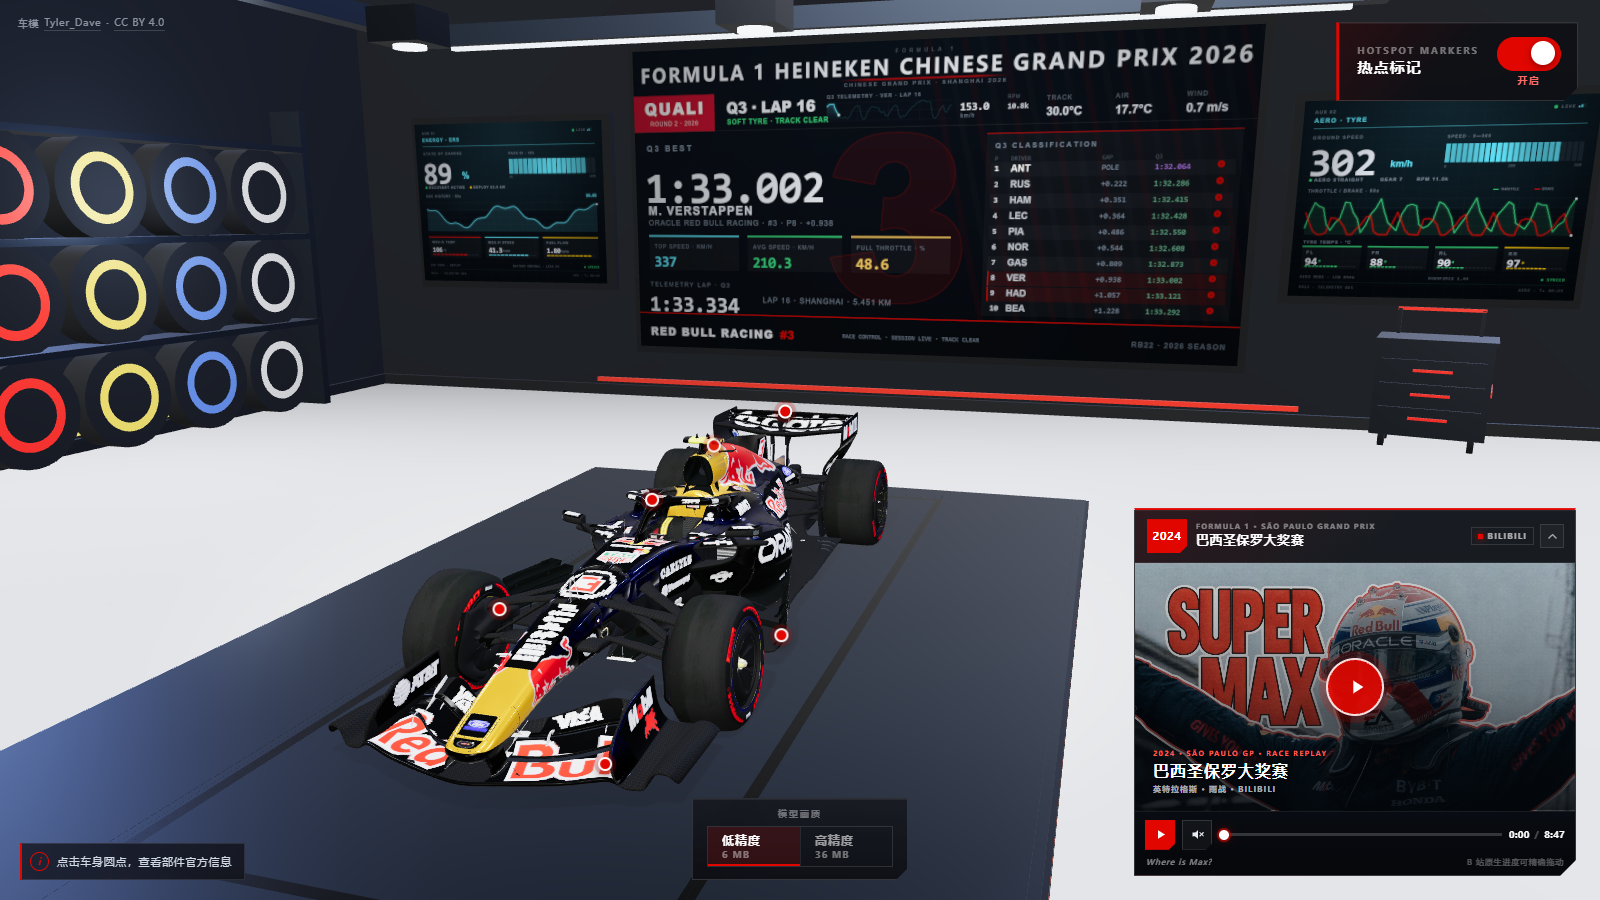
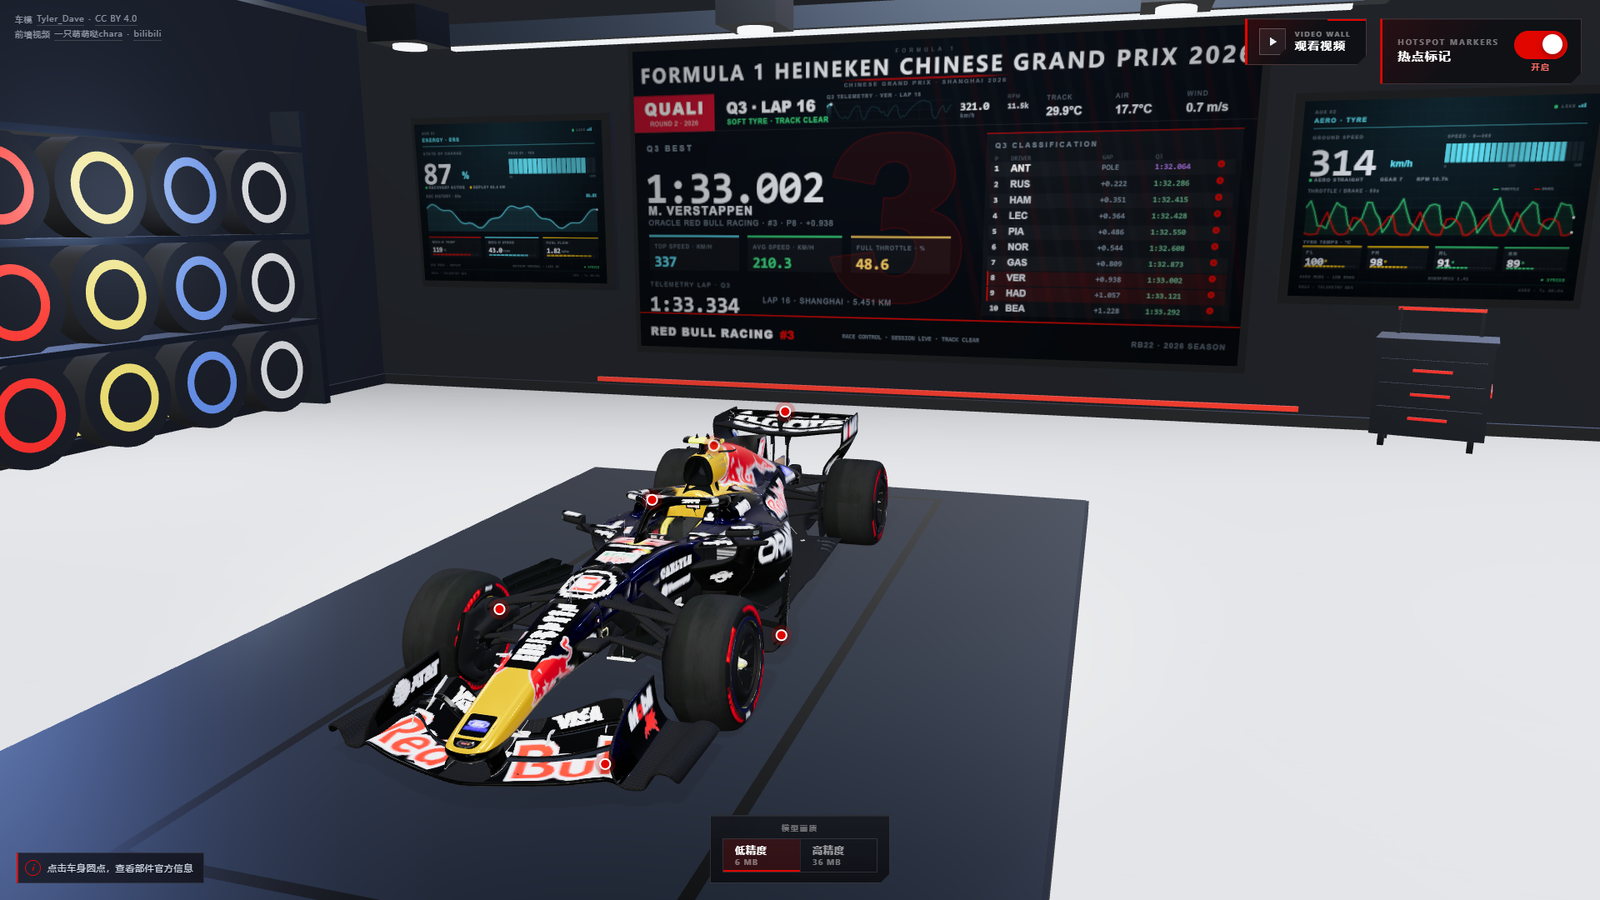
docs: 重截 README 两张截图，修正前墙大屏尺寸与画面描述
- docs/hero-default.png、docs/video-wall.png 用 1920×1080 实拍后 Lanczos 缩到 1600×900
- ?view=video 机位降到 1.3 m 正对屏幕，整车与整块屏同时入画
- README / PROJECT_CONTEXT 同步 8.18 × 4.6（16:9）屏幕与「画面满铺、无标题条」

diff --git a/src/App.vue b/src/App.vue
@@ -670,8 +670,8 @@ async function loadModel(): Promise<void> {
     if (import.meta.env.DEV) {
       const preview = new URLSearchParams(window.location.search).get('view');
       if (preview === 'video') {
-        manager.camera.position.set(1.1, 2.0, -6.1);
-        manager.controls.target.set(0.25, 1.0, 0);
+        manager.camera.position.set(0.8, 1.3, -6.0);
+        manager.controls.target.set(0.15, 1.5, 0);
         manager.controls.update();
       }
     }

diff --git a/README.md b/README.md
@@ -24,10 +24,10 @@
 5. 切到高精度模型时播放一段完整的换模动画：升降台载着车沉下去、下降一半时台前亮起
    「车辆切换中」的全息提示（含加载进度）、车到底后两扇地板合拢、加载完成并停满 2 秒后
    地板打开、新车随台面升回齐平位置，最后显示「切换成功」并恢复热点；
-6. 绕到车的另一侧（约 180°），正前方墙上是一块 6.4 × 3.2 的视频大屏：本地
-   `Ver2024.mp4` 静音循环播放；屏幕上沿是 F1 转播风格的官方赛事标题条，屏幕下方
-   是一块**钉在墙上的 3D 控制台**，播控面板贴在台面前表面，负责播放 / 暂停、
-   拖动进度、时间码、静音和音量；屏幕进入视锥才开始加载，失败只回退海报。
+6. 绕到车的另一侧（约 180°），正前方墙上是一块 8.18 × 4.6 的 16:9 视频大屏：本地
+   `Ver2024.mp4` 静音循环播放，画面满铺、不叠任何标题条；屏幕下方是一块**钉在墙上的
+   3D 控制台**，播控面板贴在台面前表面，负责播放 / 暂停、拖动进度、时间码、静音和音量；
+   屏幕进入视锥才开始加载，失败只回退海报。
 
 **它解决的不是「放一个 3D 模型」**，而是三个具体问题：
 
@@ -49,7 +49,7 @@
 | 信息卡 | 跟随投影、贴边收位、上方放不下自动翻到下方、窄屏贴底抽屉、Esc / 空白关闭 |
 | 展示间 | 13.6 × 13.6 封闭工房：环氧地坪、后墙三屏遥测墙（居中主屏 + 左右副屏）、灯桁架、轮胎墙、工具墙 |
 | 遥测屏 | 主屏顶部赛事字标（上海大奖赛 / CHINESE GRAND PRIX）+ 2026 上海站排位赛 Q3 真实成绩 + VER 第 16 圈遥测回放（5 Hz）；左右副屏是程序化 ERS / 气动示意 |
-| 前墙视频大屏 | 车头正前方 6.4 × 3.2 大屏（与后墙主屏同尺寸），本地 `Ver2024.mp4` 静音自动播放 + 循环；F1 转播标题条（官方全名 / 轮次 / 赛道 / 周末时间表 / 信号状态）+ 屏幕下方真实 3D 控制台：播放 / 暂停、±10s、可拖动进度、当前 / 总时长、静音 + 音量滑块；懒加载，失败回退海报 |
+| 前墙视频大屏 | 车头正前方 8.18 × 4.6（16:9 原生画幅）大屏，本地 `Ver2024.mp4` 静音自动播放 + 循环；画面满铺、不压标题条 / ticker / 车手条；屏幕下方真实 3D 控制台：播放 / 暂停、±10s、可拖动进度、当前 / 总时长、静音 + 音量滑块；懒加载，失败回退海报 |
 | 光照 | SpotLight 光池 + RoomEnvironment 环境反射 + 阴影 + 雾 |
 | 兜底 | WebGL 2 预检、加载进度、解析提示、失败原因 + 重新加载、显卡上下文丢失提示 |
 | 开发工具 | `?pick` 取点、`?view=video` 前墙视频视角、`preview.html` 无车模布景预览（不进生产包） |
@@ -103,10 +103,11 @@
 
 ## 车头前墙视频大屏：本地 `Ver2024.mp4`
 
-![前墙视频大屏：F1 转播标题条与墙装控制台](docs/video-wall.png)
+![前墙视频大屏：雨战画面与墙装控制台](docs/video-wall.png)
 
-车头正前方（+Z 墙面）是一块 **6.4 × 3.2** 的视频大屏，与后墙主屏同尺寸、
-同一条水平中轴。它贴在前墙 `z ≈ 6.6`，相机最远只能到 6.4，所以永远在车、
+车头正前方（+Z 墙面）是一块 **8.18 × 4.6** 的视频大屏：按 16:9 取到前墙能容纳的
+最大高度（y 0.6–5.2），顶边贴着墙顶、底边压住控制台，左右留出的深色墙面与机房
+背景融在一起。它贴在前墙 `z ≈ 6.76`（屏幕面 6.74），相机最远只能到约 6.4，所以永远在车、
 升降台、闸口、热点标记、全息提示和左右副屏之后，不会遮挡车辆主体 / 前翼，
 也不会穿进墙体或场景模型。
 
@@ -129,11 +130,8 @@
 - 屏幕不是裸视频面：四周有墙面安装板、加厚边框、四角固定螺钉和 F1 红饰线；
   屏幕正下方是一块**真实的 3D 控制台**（0.5 高、0.16 深，带金属端盖和红色台沿），
   不是浮在画面上的 DOM 条；
-- 屏幕上沿是 F1 转播风格标题条：官方全名
-  **LENOVO SÃO PAULO GRAND PRIX 2024**、`ROUND 21`、赛道官方名、日期；
-  下面紧接比赛周末 ticker（FP1 / Sprint Q / Sprint / Quali / Race 的当地时间），
-  左侧是轮次 / 城市信息条，右侧是赛道数据（71 laps / 4.309 km / 15 corners / 4 DRS /
-  lap record），底部是信号状态（SIGNAL LOCKED · F1 WORLD FEED · HD 1080P）；
+- 屏幕上是**未经遮挡的原始画面**：8.18 / 4.6 与 1280 × 720 同为 16:9，视频按 cover
+  满铺整块屏，不叠标题条、ticker、车手条或信号状态；雨战画面本身就是这里的视觉主体；
 - 播控面板每帧读取控制器给出的「控制台前表面四角投影」，用 8 自由度单应矩阵
   贴到 3D 台面上，四条边和真实台面严格重合；相机绕车旋转时面板会跟着透视，
   不是固定 HUD；
@@ -144,8 +142,7 @@
   「悬浮卡片」；
 - `z-index: 1` 在 canvas 之上、CSS2D 热点层（2）之下，热点圆点、信息卡、全息和
   画质控件始终盖在它上面；
-- 屏幕太偏 / 太斜 / 出视口时，赛事图形和控制台分开收起（控制台可以比屏幕多斜一点），
-  不硬贴半截按钮。
+- 屏幕太偏 / 太斜 / 出视口时控制台收起（它可以比屏幕多斜一点），不硬贴半截按钮。
 
 **初始化与兜底**：
 
@@ -161,13 +158,14 @@
   转码成 720p 本地文件后贴到屏幕上播放；版权归 UP 主与哔哩哔哩所有，
   本项目只做非商业展示并完整署名，详见「[素材与授权](#素材与授权)」与「[致谢](#致谢)」。
 
-本地核对前墙视角：`http://localhost:5173/?view=video`（仅 DEV，把相机放到车尾正后方；
-生产构建不包含这段代码）。布景预览页用 `preview.html?view=video`。
+本地核对前墙视角：`http://localhost:5173/?view=video`（仅 DEV，相机落到约 1.3 m 高、
+离车 6 m，正对屏幕，整车和整块屏都在画面里；生产构建不包含这段代码）。
+布景预览页用 `preview.html?view=video`。
 
 实现：[`src/core/props/videoWall.ts`](src/core/props/videoWall.ts)（3D 屏幕 / 物理控制台 + 播放状态 + 四角投影）、
-[`src/ui/VideoScreen.vue`](src/ui/VideoScreen.vue)（赛事图形 + 墙装播控面板）、
+[`src/ui/VideoScreen.vue`](src/ui/VideoScreen.vue)（墙装播控面板）、
 [`src/ui/projectedQuad.ts`](src/ui/projectedQuad.ts)（矩形 → 投影四边形的单应矩阵）、
-[`src/config/videoScreen.ts`](src/config/videoScreen.ts)（媒体源 / 赛事信息 / 可见性阈值）、
+[`src/config/videoScreen.ts`](src/config/videoScreen.ts)（媒体源 / 播放参数 / 可见性阈值）、
 [`src/config/showroom.ts`](src/config/showroom.ts)（屏幕位置、尺寸、边框、控制台）。
 
 ---
@@ -252,7 +250,7 @@ App.vue
 
 ```
 src/
-├── config/        # 唯一数据源：热点、场景、模型、展示间、升降舞台、前墙视频 / 赛事信息
+├── config/        # 唯一数据源：热点、场景、模型、展示间、升降舞台、前墙视频与播放参数
 ├── core/          # Three.js 逻辑：SceneManager / ModelLoader / Showroom / LiftStage / HotspotSystem
 │   ├── dispose.ts        # 统一的几何/材质/贴图释放
 │   └── props/     # 一件道具一个 builder，注册表驱动（含前墙 videoWall）
@@ -438,8 +436,8 @@ by [Tyler_Dave](https://sketchfab.com/Tyler_Dave)，以
 
 - 本项目把它转码成 1280×720 的本地文件 `public/videos/Ver2024.mp4`，
   贴到前墙的 3D 屏幕上播放；没有嵌入 B 站播放器、没有热链，也不做二次分发。
-- 屏幕上的赛事标题条（LENOVO SÃO PAULO GRAND PRIX 2024）是为这块展示屏程序化绘制的
-  转播包装图形，不是视频里的原画面；它与视频内容一起服务于「雨战」这个主题。
+- 项目只对片子做转码（4K → 720p）和本地播放，画面不做裁切、重绘或叠字；大屏下方的
+  播控面板是场景里的 3D 控制台 + DOM 贴合，不覆盖视频画面，也不改动 UP 主的任何标识。
 - **视频版权归 UP 主「一只萌萌哒chara」与哔哩哔哩所有**，本项目只做非商业展示并完整署名，
   商业使用请先取得 UP 主授权。完整说明见上文「素材与授权」一节。
 
